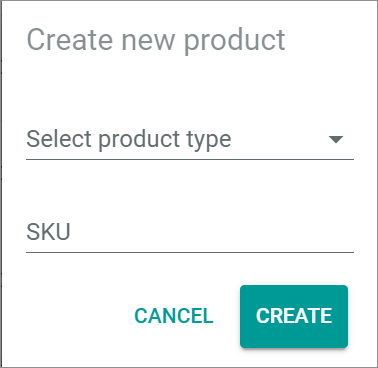
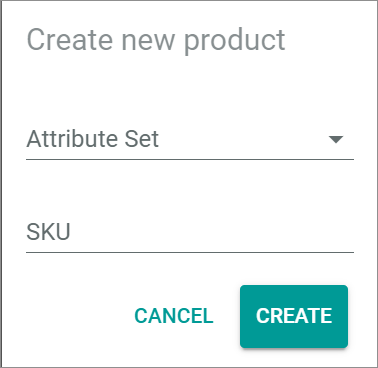
ACD-315
terminology changes, adapt images

Changed region(s): [[0.0582, 0.3288, 0.6111, 0.4185]]

diff --git a/PIM/UserInterface/02a_Products.md b/PIM/UserInterface/02a_Products.md
@@ -22,7 +22,7 @@
     - ![Publish](/Assets/Icons/Publish.png "[Publish]") publish    
       Click this entry to publish the view. This menu entry is only displayed when a view is selected and unpublished.
 
-    - ![Unpublish](/Assets/Icons/Unpublish.png "[Unpublish]") unpublish    
+    - ![Private view](/Assets/Icons/Unpublish.png "[Unpublish]") private view    
       Click this entry to unpublish the view. This menu entry is only displayed when a view is selected and published.
 
     - ![Save](/Assets/Icons/Save.png "[Save]") save    
@@ -40,8 +40,6 @@
 
 - *Channel*   
   Click the drop-down list to select the channel. All channels that are active in *PIM* are displayed in the drop-down list. By default, the **Actindo Basic** channel is preselected. For detailed information, see [Select a channel](/PIM/Operation/04_ManageView.md#select-a-channel).
-
-[comment]: <> (List needs title)
 
 - *Catalog*   
   Click the drop-down list to select the catalog. All catalogs are displayed in the drop-down list. After having selected a catalog, all categories and sub-categories of the selected catalog are displayed. Click a category or sub-category to limit the product list to those products that are assigned to the selected category. By default, the **Product Categories** catalog is preselected. For detailed information, see [Select a product category](/PIM/Operation/04_ManageView.md#select-a-product-category).
@@ -170,7 +168,7 @@ Depending on the selection in the *Variants* drop-down list, the product list di
 
 ![Create new product](/Assets/Screenshots/PIM/Products/List/CreateNewProduct.png "[Create new product]")
 
-- *Select attribute set*   
+- *Attribute set*   
   Click the drop-down list to select the attribute set for the new product. All available attribute sets are displayed in the drop-down list.
 
 - *SKU*   
@@ -436,7 +434,7 @@ In this tab, boxes of all attributes with the *Related products* data type are d
 > [Info] For detailed information about the data types, see [Data type list](04_DataTypeList.md).
 
 - [ADD]   
-  Click this button to add an associated product to the list. The *Filter List of Products* window is displayed.
+  Click this button to add an associated product to the list. The *Not associated products* window is displayed.
 
 The box displays all associated products. All fields are read-only. If no product is selected, the notice *No associated products selected* is displayed in the box.
 
@@ -459,16 +457,16 @@ The box displays all associated products. All fields are read-only. If no produc
 
 
 
-#### Filter list of products
+#### Not associated products
 *PIM > Products > Tab LIST > Button Add > Button CREATE > Tab Associations > Button ADD*
 
-![Filter List of Products ](/Assets/Screenshots/PIM/Products/List/Associations/FilterListProducts.png "[Filter List of Products]")
+![Not associated products](/Assets/Screenshots/PIM/Products/List/Associations/NotAssociatedProducts.png "[Not associated products]")
 
 - [CANCEL]   
-  Click this button to cancel adding products and close the *Filter List of Products* window.
+  Click this button to cancel adding products and close the *Not associated products* window.
 
 - [SAVE]   
-  Click this button to add the selected products to the list and close the *Filter List of Products* window.
+  Click this button to add the selected products to the list and close the *Not associated products* window.
 
 - ![Search](/Assets/Icons/Search.png "[Search]") (Search)   
   Click this button to display the search bar and search for a product.
@@ -563,7 +561,7 @@ The list displays all created offers to this product. All fields are read-only.
 - *Attribute Set*   
   Selected attribute set for the offer.
 
-- *Last edited*   
+- *Last edited on*   
   Date and time of the last modification. In the *Create product* view, no date is displayed.
 
 - *Modified by*   
@@ -580,10 +578,10 @@ The list displays all created offers to this product. All fields are read-only.
 - *ID*   
   Product identification number. The ID number is automatically assigned by the system.
 
-- *Created*   
+- *Created on*   
   Date and time of the creation. In the *Create product* view, no date is displayed.
 
-- *Creator*   
+- *Created by*   
   Name and username of the user who created the product. In the *Create product* view, no name is displayed.
 
 - ![Add](/Assets/Icons/Plus01.png "[Add]") (Add)   
@@ -615,7 +613,7 @@ The list displays all created offers to this product. All fields are read-only.
 - *Select Connection*   
   Click the drop-down list to select a connection for the offer. All available connections are displayed in the list.
 
-- *Select Attribute Set*   
+- *Attribute Set*   
   Click the drop-down list to select an attribute set for the offer. All active attribute sets are displayed in the drop-down list. The drop-down list is locked if no connection is selected.
 
 - ![Toggle](/Assets/Icons/Toggle.png "[Toggle]") *Generate SKU*   
@@ -626,7 +624,7 @@ The list displays all created offers to this product. All fields are read-only.
 
 [comment]: <> (offer or product? how does this work? When I enter a different SKU, The SKU is automatically overwritten)
 
-- *Change Tracking mode*   
+- *Change tracking mode*   
   Select the appropriate option for change tracking (ETL mode). The following options are available:   
    ![Radionbutton](/Assets/Icons/Radiobutton.png "[Radiobutton]") *manual*: Changes in a PIM product must be triggered manually to be applied to the offer. The initial offer is automatically applied.   
    ![Radionbutton](/Assets/Icons/Radiobutton.png "[Radiobutton]") *semi-automatic*: Changes in a PIM product are automatically applied to the offer after confirmation in the *Omni-Channel* module. The initial offer is automatically applied without confirmation.   
@@ -635,7 +633,7 @@ The list displays all created offers to this product. All fields are read-only.
 
 [comment]: <> (adjust field name!)
 
-- *Status*    
+- *Offer status*    
   Click the drop-down list to select the connection status. The following statuses are available:    
   - **Active**: The offer is active. It is displayed on the marketplace and can be sold there.
   - **Inactive**: The offer is inactive. It is not displayed on the marketplace and cannot be sold there.   
@@ -691,7 +689,7 @@ The list displays all created offers to this product. All fields are read-only.
 
 ![Add to multiple connections](/Assets/Screenshots/PIM/Products/List/Offers/MultipleConnections02.png "[Add to multiple connections]")
 
-- *Destination set for connection*   
+- *Destination attribute set for connection*   
   Destination attribute set for the selected connection. The attribute set is automatically selected. The field is read-only. An own attribute set is assigned to each selected connection.
 
 - [< BACK]   
@@ -700,7 +698,7 @@ The list displays all created offers to this product. All fields are read-only.
 - [CANCEL]   
   Click this button to cancel adding multi-connection offers and close the *Select destination attribute sets* wizard window.
 
-- [FINISH]   
+- [FINALIZE]   
   Click this button to save the multi-connection offers and close the *Select destination attribute sets* wizard window.
 
 
@@ -1057,7 +1055,7 @@ In this tab, boxes of all attributes with the *Related products* data type are d
 > [Info] For detailed information about the data types, see [Data type list](04_DataTypeList.md).
 
 - [ADD]   
-  Click this button to add an associated product to the list. The *Filter List of Products* window is displayed.
+  Click this button to add an associated product to the list. The *Not associated products* window is displayed.
 
 The box displays all associated product for cross selling. All fields are read-only. If no product is selected, *No associated products selected* is displayed in the box.
 
@@ -1080,16 +1078,16 @@ The box displays all associated product for cross selling. All fields are read-o
 
 
 
-#### Filter list of products
+#### Not associated products
 *PIM > Products > Select product > Tab Associations > Button ADD*
 
-![Filter List of Products ](/Assets/Screenshots/PIM/Products/List/Associations/FilterListProducts.png "[Filter List of Products]")
+![Not associated products](/Assets/Screenshots/PIM/Products/List/Associations/NotAssociatedProducts.png "[Not associated products]")
 
 - [CANCEL]   
-  Click this button to cancel adding products and close the *Filter List of Products* window.
+  Click this button to cancel adding products and close the *Not associated products* window.
 
 - [SAVE]   
-  Click this button to add the selected poducts to the list and close the *Filter List of Products* window.
+  Click this button to add the selected products to the list and close the *Not associated products* window.
 
 - ![Search](/Assets/Icons/Search.png "[Search]") (Search)   
   Click this button to display the search bar and search for a product.
@@ -1281,7 +1279,7 @@ The list displays all created offers to this product. All fields are read-only.
 - *Attribute Set*   
   Selected attribute set for the offer.
 
-- *last edited*   
+- *last edited on*   
   Date and time of the last modification.
 
 - *Modified by*   
@@ -1298,10 +1296,10 @@ The list displays all created offers to this product. All fields are read-only.
 - *ID*   
   Product identification number. The ID number is automatically assigned by the system.
 
-- *Created*   
+- *Created on*   
   Date and time of the creation.
 
-- *Creator*   
+- *Created by*   
   Name and username of the user who created the product.
 
 - ![Add](/Assets/Icons/Plus01.png "[Add]") (Add)   
@@ -1333,7 +1331,7 @@ The list displays all created offers to this product. All fields are read-only.
 - *Select Connection*   
   Click the drop-down list to select a connection for the offer. All available connections are displayed in the list.
 
-- *Select Attribute Set*   
+- *Attribute Set*   
   Click the drop-down list to select an attribute set for the offer. All active attribute sets are displayed in the drop-down list. The drop-down list is locked if no connection is selected.
 
 - ![Toggle](/Assets/Icons/Toggle.png "[Toggle]") *Generate SKU*   
@@ -1344,16 +1342,15 @@ The list displays all created offers to this product. All fields are read-only.
 
 [comment]: <> (offer or product? how does this work? When I enter a different SKU, The SKU is automatically overwritten)
 
-- *Change Tracking mode*   
+- *Change tracking mode*   
   Select the appropriate option for change tracking (ETL mode). The following options are available:   
    ![Radionbutton](/Assets/Icons/Radiobutton.png "[Radiobutton]") *manual*: Changes in a PIM product must be triggered manually to be applied to the offer. The initial offer is automatically applied.   
    ![Radionbutton](/Assets/Icons/Radiobutton.png "[Radiobutton]") *semi-automatic*: Changes in a PIM product are automatically applied to the offer after confirmation in the *Omni-Channel* module. The initial offer is automatically applied without confirmation.   
    ![Radionbutton](/Assets/Icons/Radiobutton.png "[Radiobutton]") *semi-automatic, changes must be confirmed by another user*: Changes in a PIM product are automatically applied to the offer after confirmation in the *Omni-Channel* module by another user. The initial offer is only applied after confirmation by another user.    
    ![Radionbutton](/Assets/Icons/Radiobutton.png "[Radiobutton]") *automatic*: Changes in a PIM product are automatically applied to the offer. The initial offer is also automatically applied.
 
-[comment]: <> (adjust field name!)
 
-- *Status*    
+- *Offer status*    
   Click the drop-down list to select the connection status. The following statuses are available:    
   - **Active**: The offer is active. It is displayed on the marketplace and can be sold there.
   - **Inactive**: The offer is inactive. It is not displayed on the marketplace and cannot be sold there.   
@@ -1409,7 +1406,7 @@ The list displays all created offers to this product. All fields are read-only.
 
 ![Add to multiple connections](/Assets/Screenshots/PIM/Products/List/Offers/MultipleConnections02.png "[Add to multiple connections]")
 
-- *Destination set for connection*   
+- *Destination attribute set for connection*   
   Destination attribute set for the selected connection. The attribute set is automatically selected. The field is read-only. An own attribute set is assigned to each selected connection.
 
 - [< BACK]   
@@ -1418,5 +1415,5 @@ The list displays all created offers to this product. All fields are read-only.
 - [CANCEL]   
   Click this button to cancel adding multi-connection offers and close the *Select destination attribute sets* wizard window.
 
-- [FINISH]   
+- [FINALIZE]   
   Click this button to save the multi-connection offers and close the *Select destination attribute sets* wizard window.

diff --git a/PIM/Operation/02_ManageVariants.md b/PIM/Operation/02_ManageVariants.md
@@ -23,7 +23,7 @@ The *Create new product* window is displayed.
 
   ![Create new product](/Assets/Screenshots/PIM/Products/List/CreateNewProduct.png "[Create new product]")
 
-2. Select an attribute set in the *Select attribute set* drop-down list. All active attribute sets are displayed in the drop-down list.
+2. Select an attribute set in the *Attribute set* drop-down list. All active attribute sets are displayed in the drop-down list.
 
 3. Enter a SKU for the product in the *SKU* field.
 
@@ -76,7 +76,7 @@ The [Add single variant ![Add single variant](/Assets/Icons/Document.png "[Add s
   ![Variant added](/Assets/Screenshots/PIM/Products/List/Variants/VariantAddedCreate.png "[Variant added]")
 
 5. Click the [SAVE] button in the upper right corner.   
-  The variant is saved. The product view is closed. The variant is displayed in the products list when you enable the **List all products** option in the *Variants* drop-down list at the top of the products list.
+  The variant is saved. The product view is closed. The variant is displayed in the products list when you enable the **All products** option in the *Variants* drop-down list at the top of the products list.
 
 
 #### Create multiple variants
@@ -119,7 +119,7 @@ The [Add single variant ![Add single variant](/Assets/Icons/Document.png "[Add s
   ![Variants added](/Assets/Screenshots/PIM/Products/List/Variants/VariantsAddedCreate.png "[Variants added]")
 
 8. Click the [SAVE] button in the upper right corner.   
-  The variant is saved. The product view is closed. The variants are displayed in the products list when you enable the **List all products** option in the *Variants* drop-down list at the top of the products list.
+  The variant is saved. The product view is closed. The variants are displayed in the products list when you enable the **All products** option in the *Variants* drop-down list at the top of the products list.
 
   > [Info] For detailed information about the different views, see [Manage the view](04_ManageView.md).
 
@@ -200,7 +200,7 @@ At least one variant is created, see [Create variants](#create-variants) or [Add
 
 ![Product list](/Assets/Screenshots/PIM/Products/List/Products.png "[Product list]")
 
-1. Click the *Variants* drop-down list at the top of the products list and select the **List all products** option.   
+1. Click the *Variants* drop-down list at the top of the products list and select the **All products** option.   
   All products including the variants are displayed in the products list.
 
   ![All products](/Assets/Screenshots/PIM/Products/List/AllProducts.png "[All products]")

diff --git a/PIM/Overview/02_Features.md b/PIM/Overview/02_Features.md
@@ -16,15 +16,15 @@ Intelligent product data management for all sales channels:
 
 ## Always agile - always prepared for growth
 
-More flexibility for your requirements:   
+**More flexibility for your requirements**   
 Every company has its own unique product data management requirements. The *PIM* module enables you to efficiently manage products across all channels. Not only can you maintain product data, but you can also design data management to meet your individual needs. For example, create your own attribute sets with specific attributes, maintain products in multiple languages and decide which data exists on which channels. Flexibility is a synonym for our *PIM* module.
 
 ## Integrative - simple - fast to use
 
-A perfect fit for existing IT:   
+**A perfect fit for existing IT**   
 Is your IT infrastructure built on legacy systems such as SAP or AS/400? With Actindo, you don't have to replace your functioning system landscape. The *PIM* module can be easily connected to your existing systems and online shop technology which enables an optimal data exchange. As a result, you can digitize and centralize your trade processes quickly and with little effort.
 
 ## Actindo data accelerator hub
 
-Touchpoint excellence thanks to DataHub and ETL:   
+**Touchpoint excellence thanks to DataHub and ETL**  
 The *PIM* module unfolds its full power, especially in combination with the *DataHub* module of Actindo. Thanks to ETL, the *DataHub* module ensures that even the most complex and varying data can be easily mapped, transformed and transferred to other modules and external systems. This way, you will maintain your product data centrally in the *PIM* module and play it out individually and automatically for each sales channel. In practice, this means less adjustment effort: manually creating and moving product data in different systems or Excel files is a thing of the past.   

diff --git a/PIM/UserInterface/00_UserInterface.md b/PIM/UserInterface/00_UserInterface.md
@@ -28,7 +28,7 @@
     - [Create product - Catalogs](02a_Products.md#create-product-catalogs)
       - [Categories](02a_Products.md#categories)
     - [Create product - Associations](02a_Products.md#create-product-associations)
-      - [Filter list of products](02a_Products.md#filter-list-of-products)
+      - [Not associated products](02a_Products.md#not-associated-products)
     - [Create product - UCS Warehouse](02a_Products.md#create-product-ucs-warehouse)
     - [Create product - UCS Marketplaces](02a_Products.md#create-product-ucs-marketplaces)
     - [Create product - Offers](02a_Products.md#create-product-offers)
@@ -51,7 +51,7 @@
     - [Edit product - Catalogs](02a_Products.md#edit-product-catalogs)
       - [Categories](02a_Products.md#categories)
     - [Edit product - Associations](02a_Products.md#edit-product-associations)
-      - [Filter list of products](02a_Products.md#filter-list-of-products)
+      - [Not associated products](02a_Products.md#not-associated-products)
     - [Edit product - History](02a_Products.md#edit-product-history)
       - [History (Single Entry)](02a_Products.md#history-single-entry)
     - [Edit product - UCS Warehouse](02a_Products.md#edit-product-ucs-warehouse)

diff --git a/PIM/Overview/01_General.md b/PIM/Overview/01_General.md
@@ -2,13 +2,16 @@
 
 The *Actindo Product Information Management (PIM)* is the one source of truth for collecting, managing and enriching product data and thus the heart of all your sales channels. Developed according to the API-first principle, the *PIM* module can be quickly and easily integrated into existing system landscapes and serves as the basis for efficient unified commerce across all channels.
 
+This documentation refers to *PIM* module version 4.2.0. There may be differences in the UI, features and operation if your *PIM* module is installed in a different version.
+
+
+## Benefits
+
 The *PIM* module offers the following benefits:
 - Flexible integration into existing system landscapes, including data transformation from legacy IT-systems
 - Real-time management and control of product data for all sales channels and marketplaces
 - Central product data hub that breaks down data silos and ensures high data quality
 - Data output individually tailored to each output channel
-
-This documentation refers to *PIM* module version 4.2.0. There may be differences in the UI, features and operation if your *PIM* module is installed in a different version.
 
 
 ## Prerequisites

diff --git a/PIM/Operation/03_MoveProducts.md b/PIM/Operation/03_MoveProducts.md
@@ -110,9 +110,9 @@ At least one product is moved to the recycle bin, see [Delete a product](#delete
   The editing toolbar is displayed above the products list.
 
 2. Click the [FINALLY DELETE PRODUCTS] button in the toolbar.   
-  The button changes to [DELETING...]. The *Products deleted* pop-up window is displayed, indicating the number of finally deleted products.
+  The button changes to [DELETING...]. The *Products finally deleted* pop-up window is displayed, indicating the number of finally deleted products.
 
-  ![Product deleted](/Assets/Screenshots/PIM/Products/List/ProductDeleted.png "[Product deleted]")
+  ![Product finally deleted](/Assets/Screenshots/PIM/Products/RecycleBin/ProductFinallyDeleted.png "[Product finally deleted]")
 
   The selected products are permanently deleted.
 

diff --git a/PIM/Operation/04_ManageView.md b/PIM/Operation/04_ManageView.md
@@ -147,8 +147,8 @@ No prerequisites to fulfill.
 
 1. Click the *Variants* drop-down list at the top of the products list.   
   The options below are displayed:
-  - **Hide child products**: No variants are displayed in the product list.
-  - **List all products**: All products and their variants are displayed in the product list.
+  - **All products**: All products and their variants are displayed in the product list.   
+  - **Hide variants**: No variants are displayed in the product list.
 
 
 2. Select the desired variant view in the *Variants* drop-down list.

diff --git a/PIM/Operation/01_ManageProducts.md b/PIM/Operation/01_ManageProducts.md
@@ -23,7 +23,7 @@ An attribute set is created, see [Create an attribute set](ManageAttributeSet.md
 
   ![Create new product](/Assets/Screenshots/PIM/Products/List/CreateNewProduct.png "[Create new product]")
 
-2. Select a attribute set in the *Select attribute set* drop-down list. All active attribute sets are displayed in the drop-down list.
+2. Select a attribute set in the *Attribute set* drop-down list. All active attribute sets are displayed in the drop-down list.
 
 3. Enter a SKU for the product in the *SKU* field.
 

diff --git a/PIM/UserInterface/02b_Products.md b/PIM/UserInterface/02b_Products.md
@@ -37,7 +37,7 @@ The list displays all archived products. All fields are read-only. Depending on 
 - *Attribute Set*   
   Assigned attribute set.
 
-- *Archived at*   
+- *Archived on*   
   Date and time of the archiving.
 
 - *Archived by*   

diff --git a/PIM/UserInterface/02c_Products.md b/PIM/UserInterface/02c_Products.md
@@ -41,7 +41,7 @@ The list displays all products moved to recycle bin. All fields are read-only. D
 - *Attribute Set*   
   Assigned attribute set.
 
-- *Deleted at*   
+- *Deleted on*   
   Date and time of the deletion.
 
 - *Deleted by*   

diff --git a/PIM/Overview/00_Overview.md b/PIM/Overview/00_Overview.md
@@ -1,6 +1,7 @@
 # Overview
 
 - [General information](01_General.md)
+  - [Benefits](01_General.md#benefits)
   - [Prerequisites](01_General.md#prerequisites)
 
 
